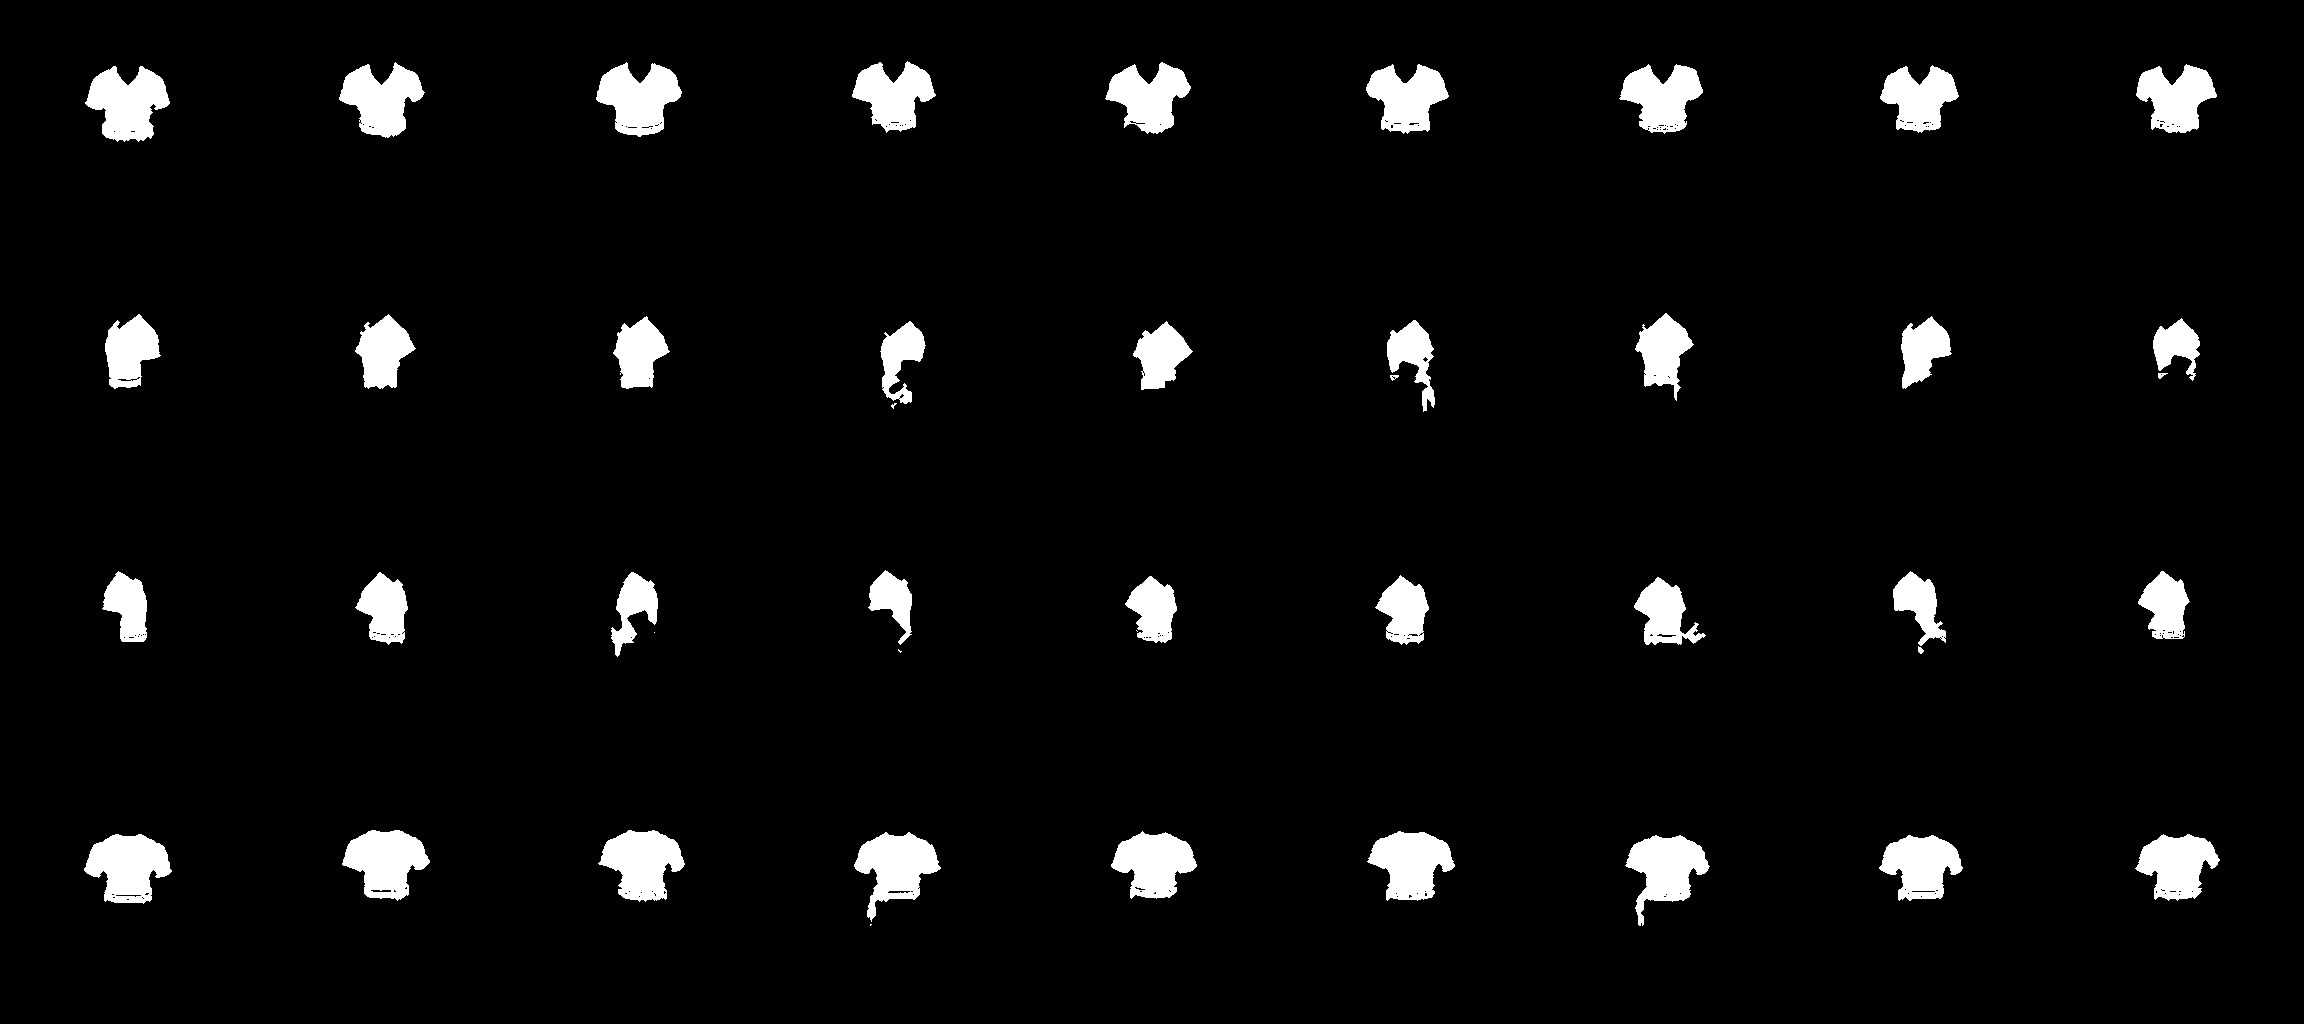
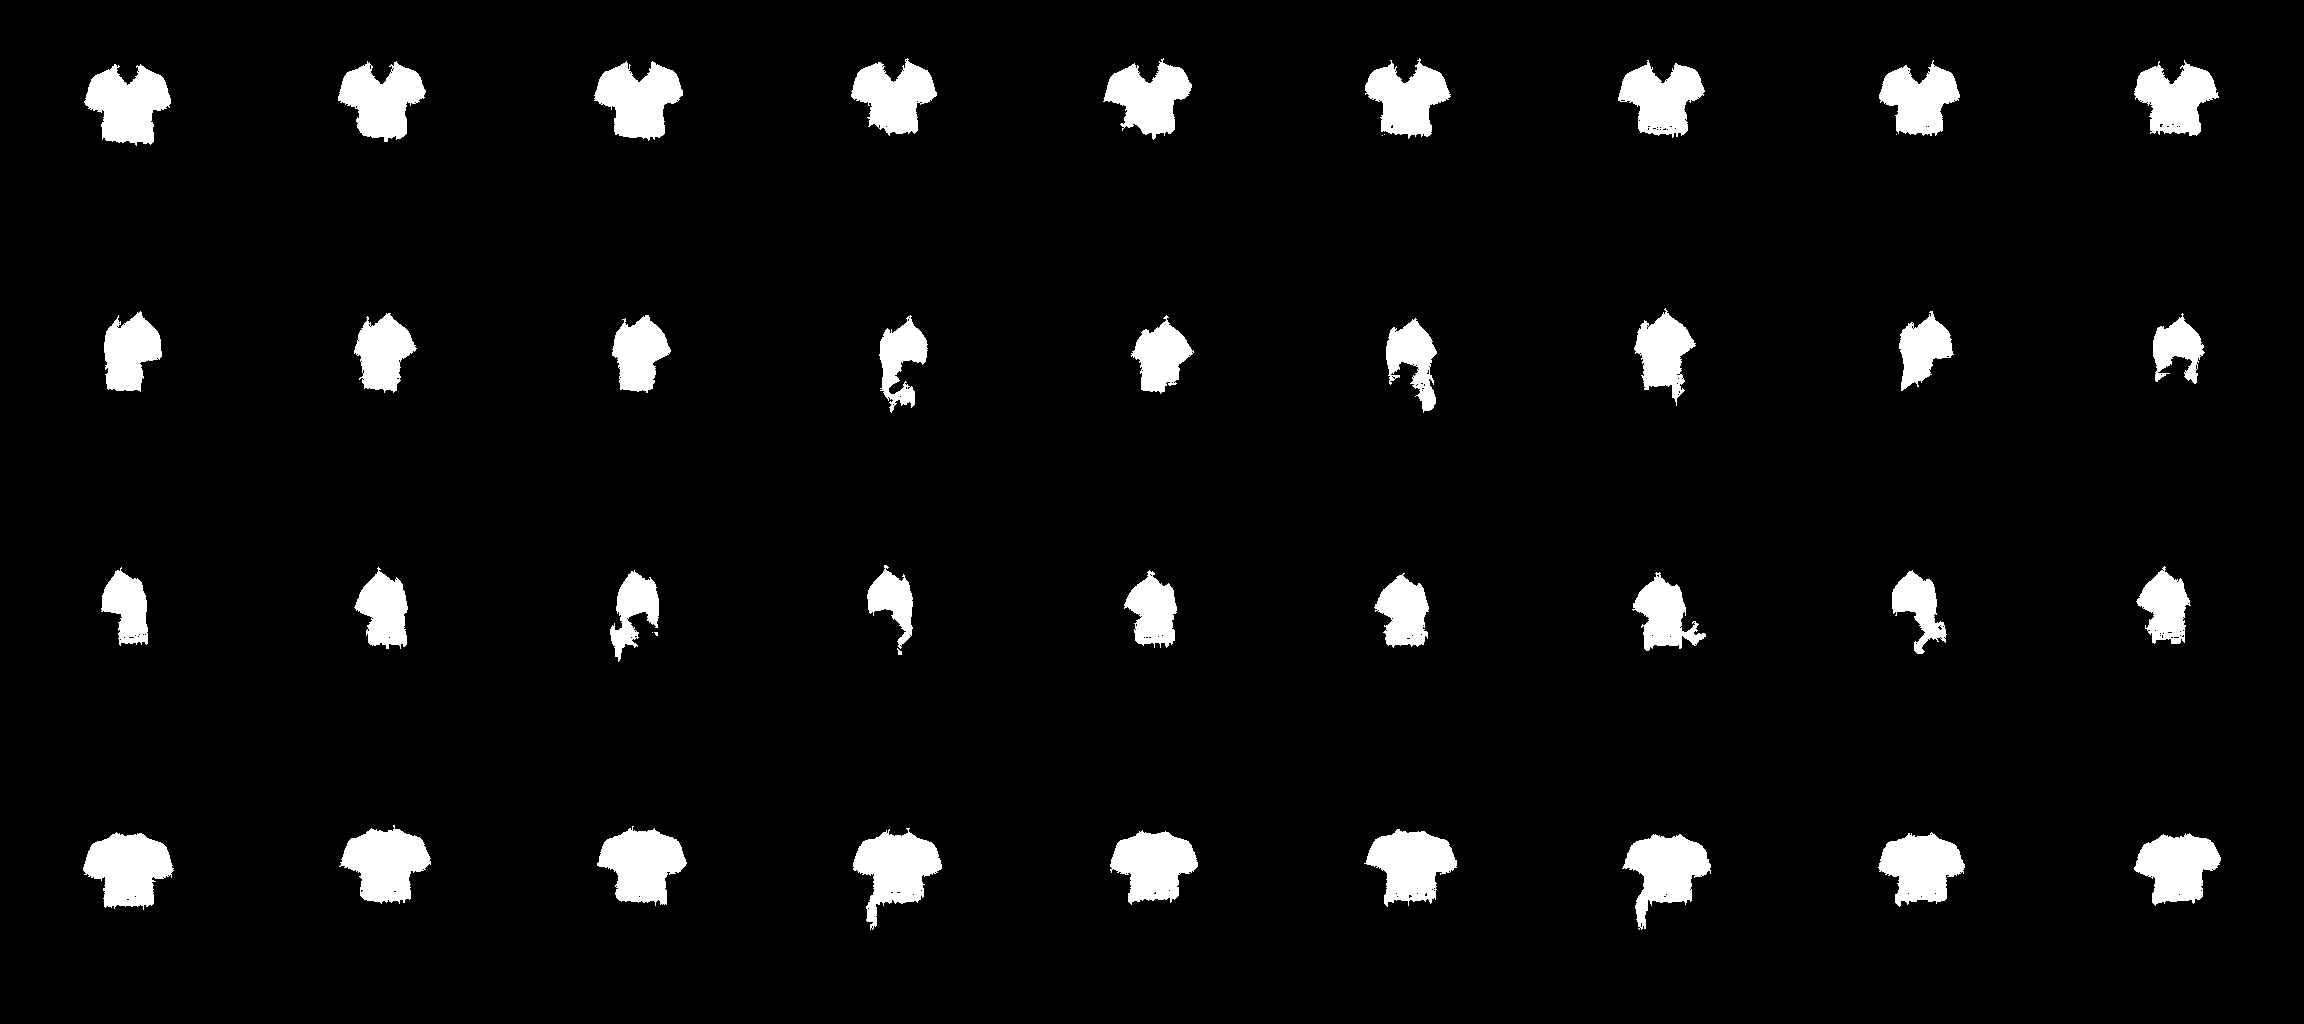
Round 566: desert armor (Sunwoven Shirt, Scarab Belt) from recipes (#333)
* Round 566: desert armor for the Sunwoven Shirt and Scarab Belt, designed with recipes

Claude-Session: https://claude.ai/code/session_01XB2RMCaJ1aVVtBjSNk3FhS

* Round 566: tests: recipes compared across vm contexts as text; the missing-art check on a belt with no recipe

Claude-Session: https://claude.ai/code/session_01XB2RMCaJ1aVVtBjSNk3FhS

* Round 566: fuller fit templates (no rim of old clothing round a designed piece)

Claude-Session: https://claude.ai/code/session_01XB2RMCaJ1aVVtBjSNk3FhS

---------

Changed region(s): [[0.375, 0.875, 0.4062, 0.9062], [0.1562, 0.8438, 0.1875, 0.875]]

diff --git a/tools/wearable_add.py b/tools/wearable_add.py
@@ -276,6 +276,16 @@ def slot_templates(base):
         m = _shrink(_grow(m, 2), 2) & body  # (closing: small gaps between a piece's parts filled)
         m = _grow(_shrink(m, 1), 1) & body  # (opening: single stray pixels dropped)
         m = _main_parts(m)
+        if sl in TEMPLATE_CLASSES:  # (Round 566, owner: "too careful with the cutout and missing pixels that should be filled in"):
+            # grow into the rest of the hero's own cloth that touches it: shaded edges and folds the colour test missed, so no
+            # rim of the old clothing shows round a designed piece; the Aetherlink and his skin stay out
+            col, t, y0, y1, margin = TEMPLATE_CLASSES[sl]
+            loose = body & (dist(col) < t * 1.9) & (dist(col) < dist(SKIN) - 4) & (cy >= y0 - 6) & (cy < y1 + 4)
+            if sl == 'shirt':  # (his navy, darkened in shade: blue the strongest channel)
+                loose |= body & (b[..., 2] >= b[..., 0] + 6) & (b[..., 2] >= b[..., 1]) & (b[..., 0] + b[..., 1] + b[..., 2] < 330) & (cy >= y0 - 6) & (cy < y1 + 4)
+            loose &= ~_grow(body & (b[..., 2] > 150) & (b[..., 1] > 150) & (b[..., 0] < 140) & (b[..., 2] - b[..., 0] > 60), 2)
+            for _ in range(6):
+                m = m | (_grow(m, 1) & loose)
         if sl == 'shirt':  # (Round 565, owner: "you could make it a little longer"): tucked under the belt, up to 8px down, only where
             # a belt is (the brown belt's own part or a fitted belt), so no gap shows between shirt and belt and nothing pokes out
             belt = np.zeros(body.shape, bool)

diff --git a/CHANGES.md b/CHANGES.md
@@ -3496,6 +3496,20 @@ Playtest of Neon Aftermath's three relics (Moon Lens 5,4; Ember Sigil 5,7; Briar
 - Talent descriptions list the per-rank values. Tests updated: round76, chronospire,
   talent-matrix, card-variety, plating-armor.
 
+## Round 566: desert armor for Solaris's gear, designed with recipes
+
+(Owner: "can you use your technique to create a desert style armor for the character?") The two Solaris (desert) items get
+designed looks, made with the Round 564 recipes: `gear/recipes/sunwovenShirt.json` (sand-bronze scale mail, thick dark leather
+trim, a gold band at the waist, a thin turquoise seam) and `gear/recipes/scarabBelt.json` (aged-bronze scales, dark trim, a
+glowing turquoise gem line). Chosen from five variants rendered side by side (plates, quilting, woven straw, copper; brighter gold
+looked plastic). They replace the cyber looks for these two items only; the other shirt and belts keep theirs. Checked in the game
+at game size in all four directions while walking.
+
+**Fuller fit** (owner: "you are being too carefull with the cutout and missing pixels that should be filled in"): the shirt,
+pants and boots templates left a rim of the hero's own clothing round a designed piece (his navy at the shirt's shaded edges,
+seams and armholes: ~1,700 px across the sheet). Each template now grows into the rest of his own cloth that touches it (looser
+colour test, plus for the shirt his darkened navy), never into his skin or the Aetherlink.
+
 ## Round 565: a designed shirt reaches the belt
 
 (Owner: the designed shirt "doesnt go down all the way to the belt"; "as long as the shirt is placed before the belt goes over it,

diff --git a/tools/art-refresh/wearable-gear.md b/tools/art-refresh/wearable-gear.md
@@ -145,3 +145,5 @@ Other commands: `python3 tools/wearable_add.py --check` (validate all looks, rea
 | `cyber-pants` | pants | galeweavePants, mossweavePants | no | 558 |
 | `cyber-chest` | shirt | sunwovenShirt, timewornShirt | no (armor over the shirt) | 558 |
 | `cyber-gloves` | gloves | ember, thornhideGloves, tempestGloves | no (fingerless, over the hands) | 560 |
+| recipe: desert scale armor | shirt | sunwovenShirt (in place of cyber-chest) | (designed, `gear/recipes/`) | 566 |
+| recipe: desert scarab belt | belt | scarabBelt (in place of cyber-belt) | (designed, `gear/recipes/`) | 566 |

diff --git a/CLAUDE.md b/CLAUDE.md
@@ -7,7 +7,7 @@ gallery; `arena.html` is a standalone prototype and is left untouched.
 **`CODEX-NOTES.md`** records Codex's generation review and recommendations for Claude; check its pinned baseline before acting.
 
 **`NOTES.md`** holds the owner's ideas for later (not to build until asked); remind the owner of them when
-relevant. **Read `CHANGES.md` first.** Every round of work (Round 1 to Round 565) is
+relevant. **Read `CHANGES.md` first.** Every round of work (Round 1 to Round 566) is
 logged there with its reasoning. Add a new `## Round N:` entry for each
 change set.
 
